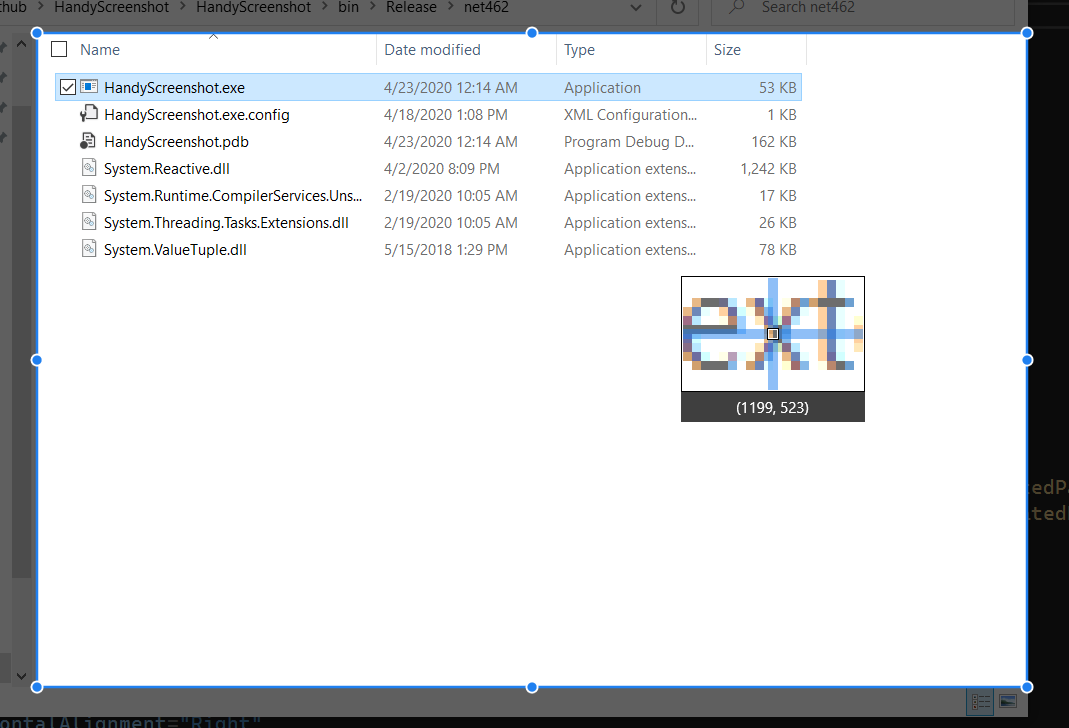
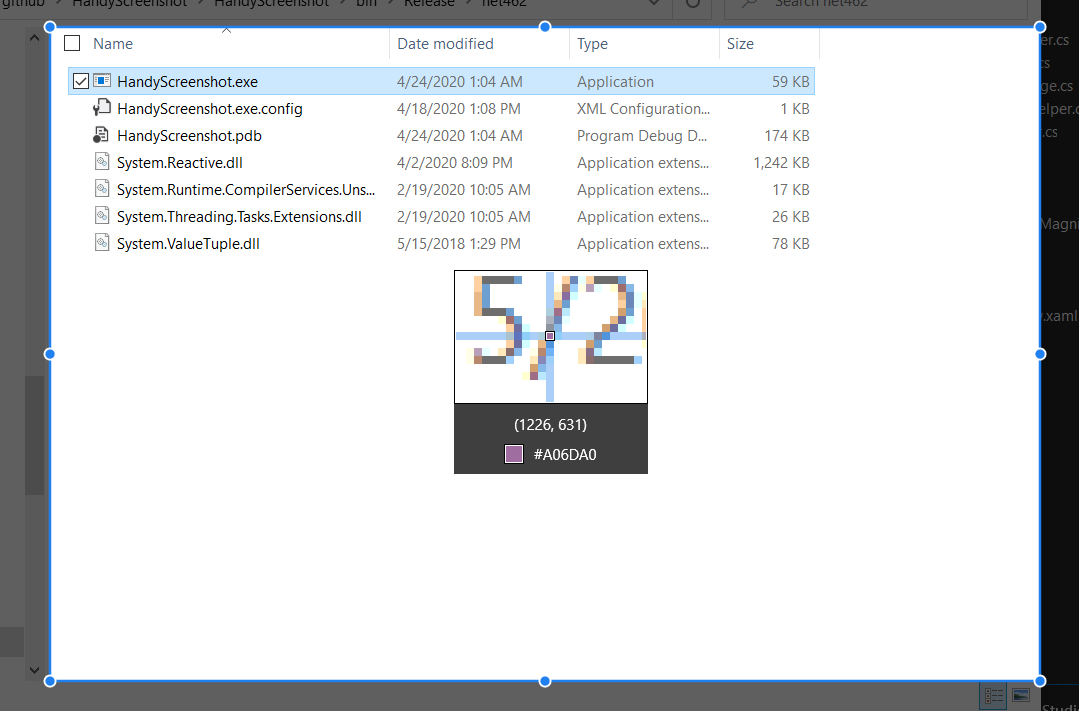
Add color picker to the magnifier control.

Changed region(s): [[0.0, 0.0, 1.0, 1.0]]

diff --git a/HandyScreenshot/Themes/DefaultStyle.MagnifierToolTip.xaml b/HandyScreenshot/Themes/DefaultStyle.MagnifierToolTip.xaml
@@ -69,12 +69,41 @@
 
                             <Grid Grid.Row="1"
                                   Background="#C0000000">
-                                <TextBlock Foreground="White"
-                                           HorizontalAlignment="Center"
-                                           Margin="0 4">
+                                <Grid.RowDefinitions>
+                                    <RowDefinition Height="8" />
+                                    <RowDefinition Height="Auto" />
+                                    <RowDefinition Height="8" />
+                                    <RowDefinition Height="Auto" />
+                                    <RowDefinition Height="8" />
+                                </Grid.RowDefinitions>
+                                <TextBlock Grid.Row="1"
+                                           Foreground="White"
+                                           HorizontalAlignment="Center">
                                     (<Run Text="{Binding Path=MousePointX, StringFormat='{}{0:0}', Mode=OneWay, RelativeSource={RelativeSource TemplatedParent}}" />,
                                     <Run Text="{Binding Path=MousePointY, StringFormat='{}{0:0}', Mode=OneWay, RelativeSource={RelativeSource TemplatedParent}}" />)
                                 </TextBlock>
+                                <Grid Grid.Row="3"
+                                      HorizontalAlignment="Center">
+                                    <Grid.ColumnDefinitions>
+                                        <ColumnDefinition Width="Auto" />
+                                        <ColumnDefinition Width="8" />
+                                        <ColumnDefinition Width="Auto" />
+                                    </Grid.ColumnDefinitions>
+                                    <Border Width="16"
+                                            Height="16"
+                                            BorderBrush="Black"
+                                            BorderThickness="1">
+                                        <Border BorderBrush="White"
+                                                BorderThickness="1">
+                                            <Border.Background>
+                                                <SolidColorBrush Color="{Binding Path=Color, Mode=OneWay, RelativeSource={RelativeSource TemplatedParent}}" />
+                                            </Border.Background>
+                                        </Border>
+                                    </Border>
+                                    <TextBlock Grid.Column="2"
+                                               Foreground="White"
+                                               Text="{Binding Path=ColorString, Mode=OneWay, RelativeSource={RelativeSource TemplatedParent}}" />
+                                </Grid>
                             </Grid>
                         </Grid>
                     </Canvas>

diff --git a/HandyScreenshot/Views/MainWindow.xaml b/HandyScreenshot/Views/MainWindow.xaml
@@ -33,6 +33,7 @@
         <controls:ClipBox RectProxy="{Binding ClipBoxRect}" />
 
         <controls:MagnifierToolTip Target="{Binding ElementName=Screenshot}"
+                                   BitmapSource="{Binding Background}"
                                    PointProxy="{Binding MousePoint}"
                                    Scale="{Binding Scale}" />
 

diff --git a/HandyScreenshot/Controls/MagnifierToolTip.cs b/HandyScreenshot/Controls/MagnifierToolTip.cs
@@ -4,6 +4,7 @@ using System.Runtime.CompilerServices;
 using System.Windows;
 using System.Windows.Controls;
 using System.Windows.Media;
+using System.Windows.Media.Imaging;
 
 namespace HandyScreenshot.Controls
 {
@@ -15,6 +16,8 @@ namespace HandyScreenshot.Controls
             "PointProxy", typeof(PointProxy), typeof(MagnifierToolTip), new PropertyMetadata(null, PointProxyChanged));
         public static readonly DependencyProperty ScaleProperty = DependencyProperty.Register(
             "Scale", typeof(double), typeof(MagnifierToolTip), new PropertyMetadata(1D, ScaleChanged));
+        public static readonly DependencyProperty BitmapSourceProperty = DependencyProperty.Register(
+            "BitmapSource", typeof(BitmapSource), typeof(MagnifierToolTip), new PropertyMetadata(default(BitmapSource)));
 
         private static void ScaleChanged(DependencyObject d, DependencyPropertyChangedEventArgs e)
         {
@@ -50,6 +53,11 @@ namespace HandyScreenshot.Controls
             set => SetValue(ScaleProperty, value);
         }
 
+        public BitmapSource BitmapSource
+        {
+            get => (BitmapSource)GetValue(BitmapSourceProperty);
+            set => SetValue(BitmapSourceProperty, value);
+        }
 
         private double _positionX;
         private double _positionY;
@@ -57,6 +65,8 @@ namespace HandyScreenshot.Controls
         private double _mousePointY;
         private Rect _region;
         private MagnifierToolTipSizes _sizes;
+        private string _colorString;
+        private Color _color;
 
         public double PositionX
         {
@@ -88,6 +98,18 @@ namespace HandyScreenshot.Controls
             set => SetProperty(ref _region, value);
         }
 
+        public string ColorString
+        {
+            get => _colorString;
+            set => SetProperty(ref _colorString, value);
+        }
+
+        public Color Color
+        {
+            get => _color;
+            set => SetProperty(ref _color, value);
+        }
+
         public MagnifierToolTipSizes Sizes
         {
             get => _sizes;
@@ -115,6 +137,20 @@ namespace HandyScreenshot.Controls
             MousePointX = x;
             MousePointY = y;
             Region = new Rect(x - Sizes.HalfRegionWidth, y - Sizes.HalfRegionHeight, Sizes.RegionWidth, Sizes.RegionHeight);
+            var (r, g, b) = Dispatcher.Invoke(() => GetRgb(BitmapSource, x, y));
+            ColorString = $"#{r:X2}{g:X2}{b:X2}";
+            Color = Color.FromRgb(r, g, b);
+        }
+
+        private static Int32Rect _sampleRect = new Int32Rect(0, 0, 1, 1);
+        private static readonly byte[] _sampleBytes = new byte[4];
+
+        private static (byte r, byte g, byte b) GetRgb(BitmapSource source, double x, double y)
+        {
+            _sampleRect.X = (int)(x / 0.8);
+            _sampleRect.Y = (int)(y / 0.8);
+            source.CopyPixels(_sampleRect, _sampleBytes, 4, 0);
+            return (_sampleBytes[2], _sampleBytes[1], _sampleBytes[0]);
         }
 
         static MagnifierToolTip()

diff --git a/README.md b/README.md
@@ -10,10 +10,12 @@
 * [ ] 全局/内置HotKey支持
 * [ ] 截图裁剪框控件
 * [x] 放大镜控件
+  * [x] 十字准星
+  * [x] 颜色拾取器
 * [ ] 图片编辑控件
   * [ ] 矩形/圆形绘制
   * [ ] 直线/折线绘制
-  * [ ] 马赛克
+  * [x] 马赛克
   * [ ] 箭头
   * [ ] 笔、马克笔
   * [ ] 文字输入
